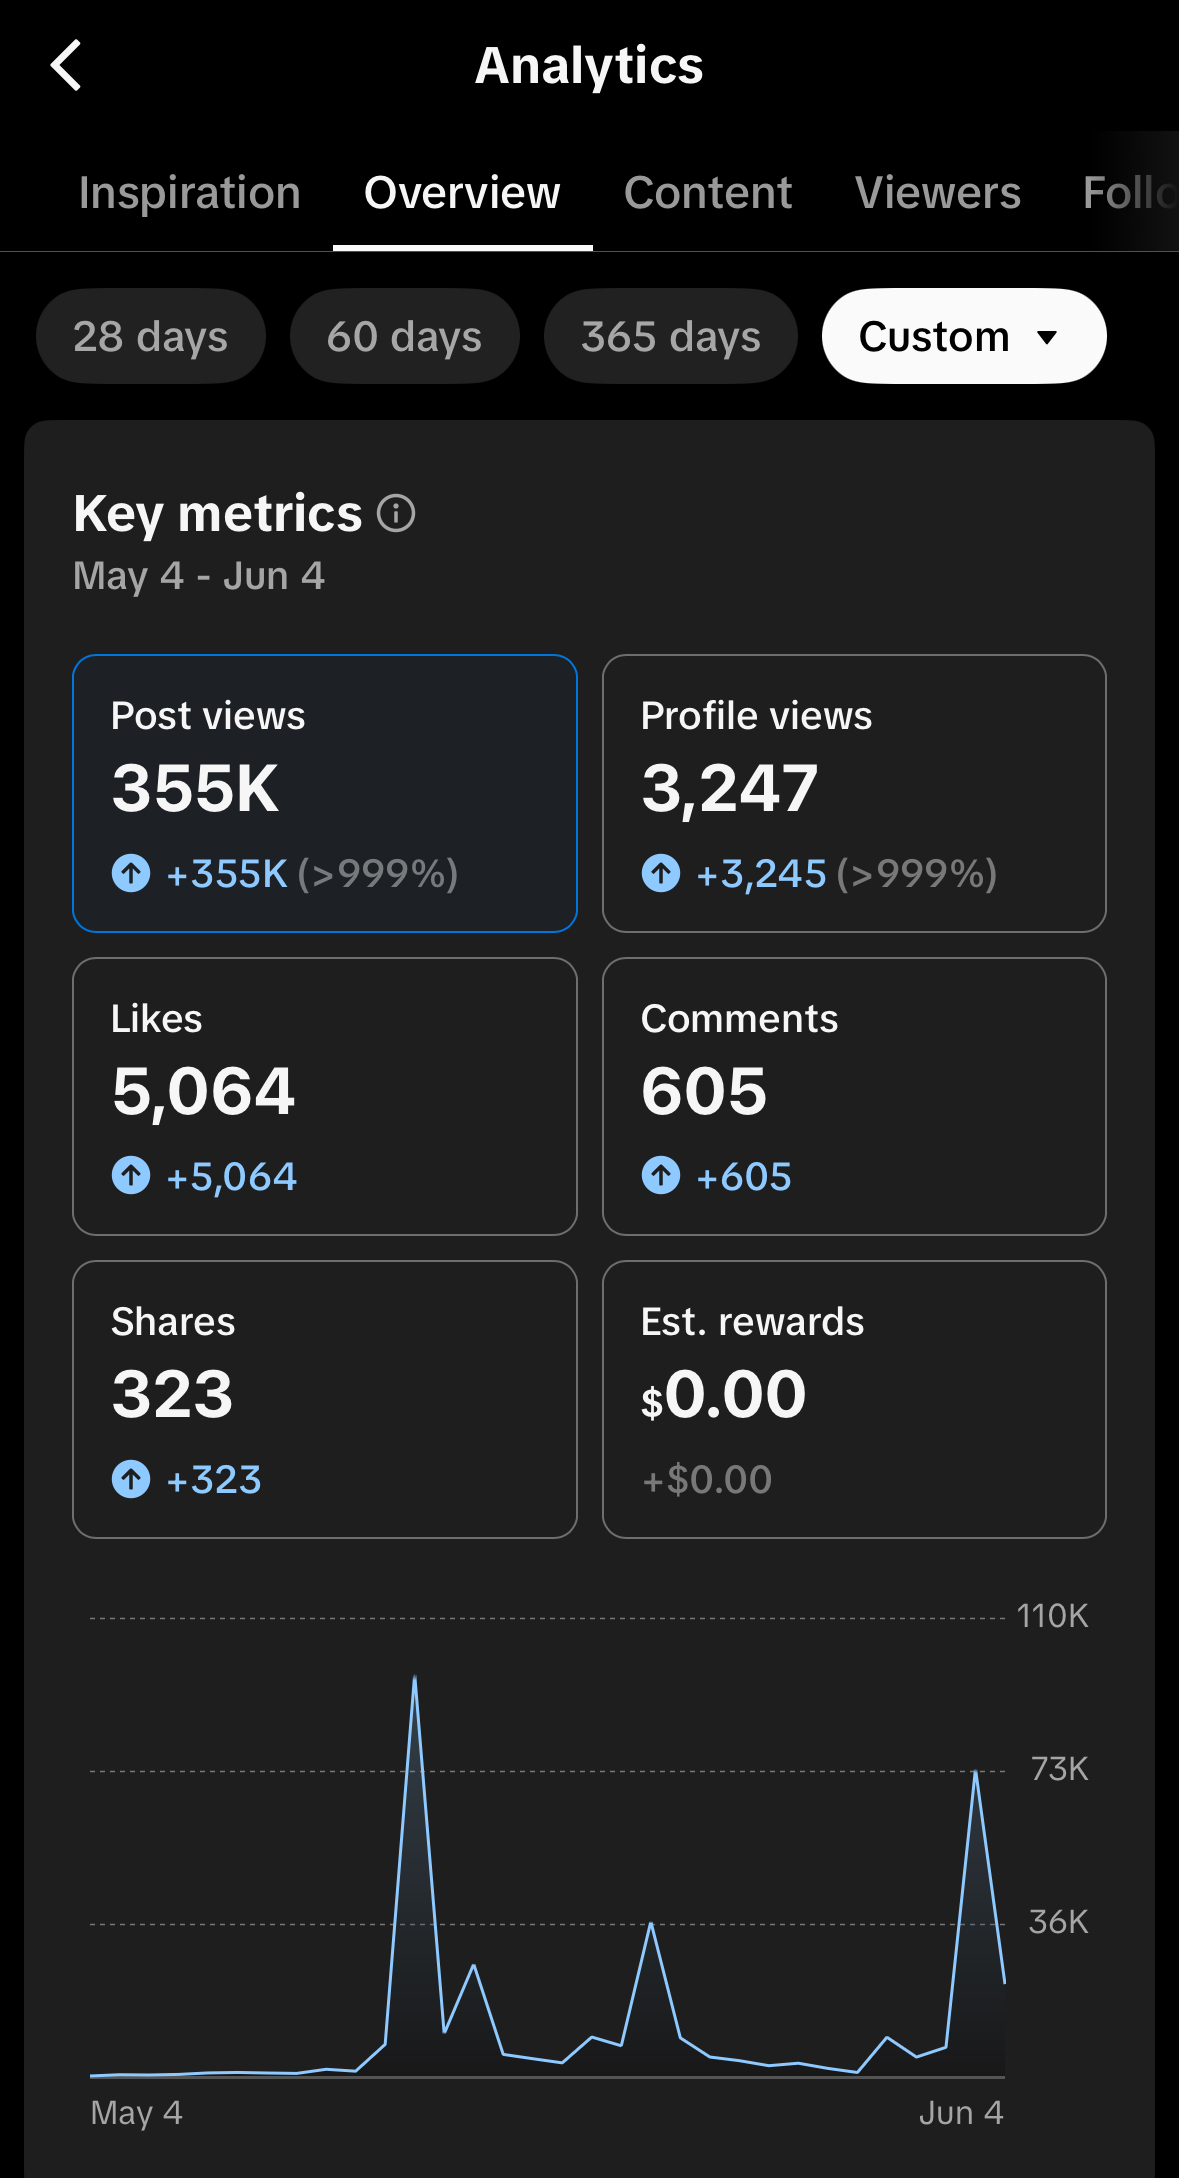
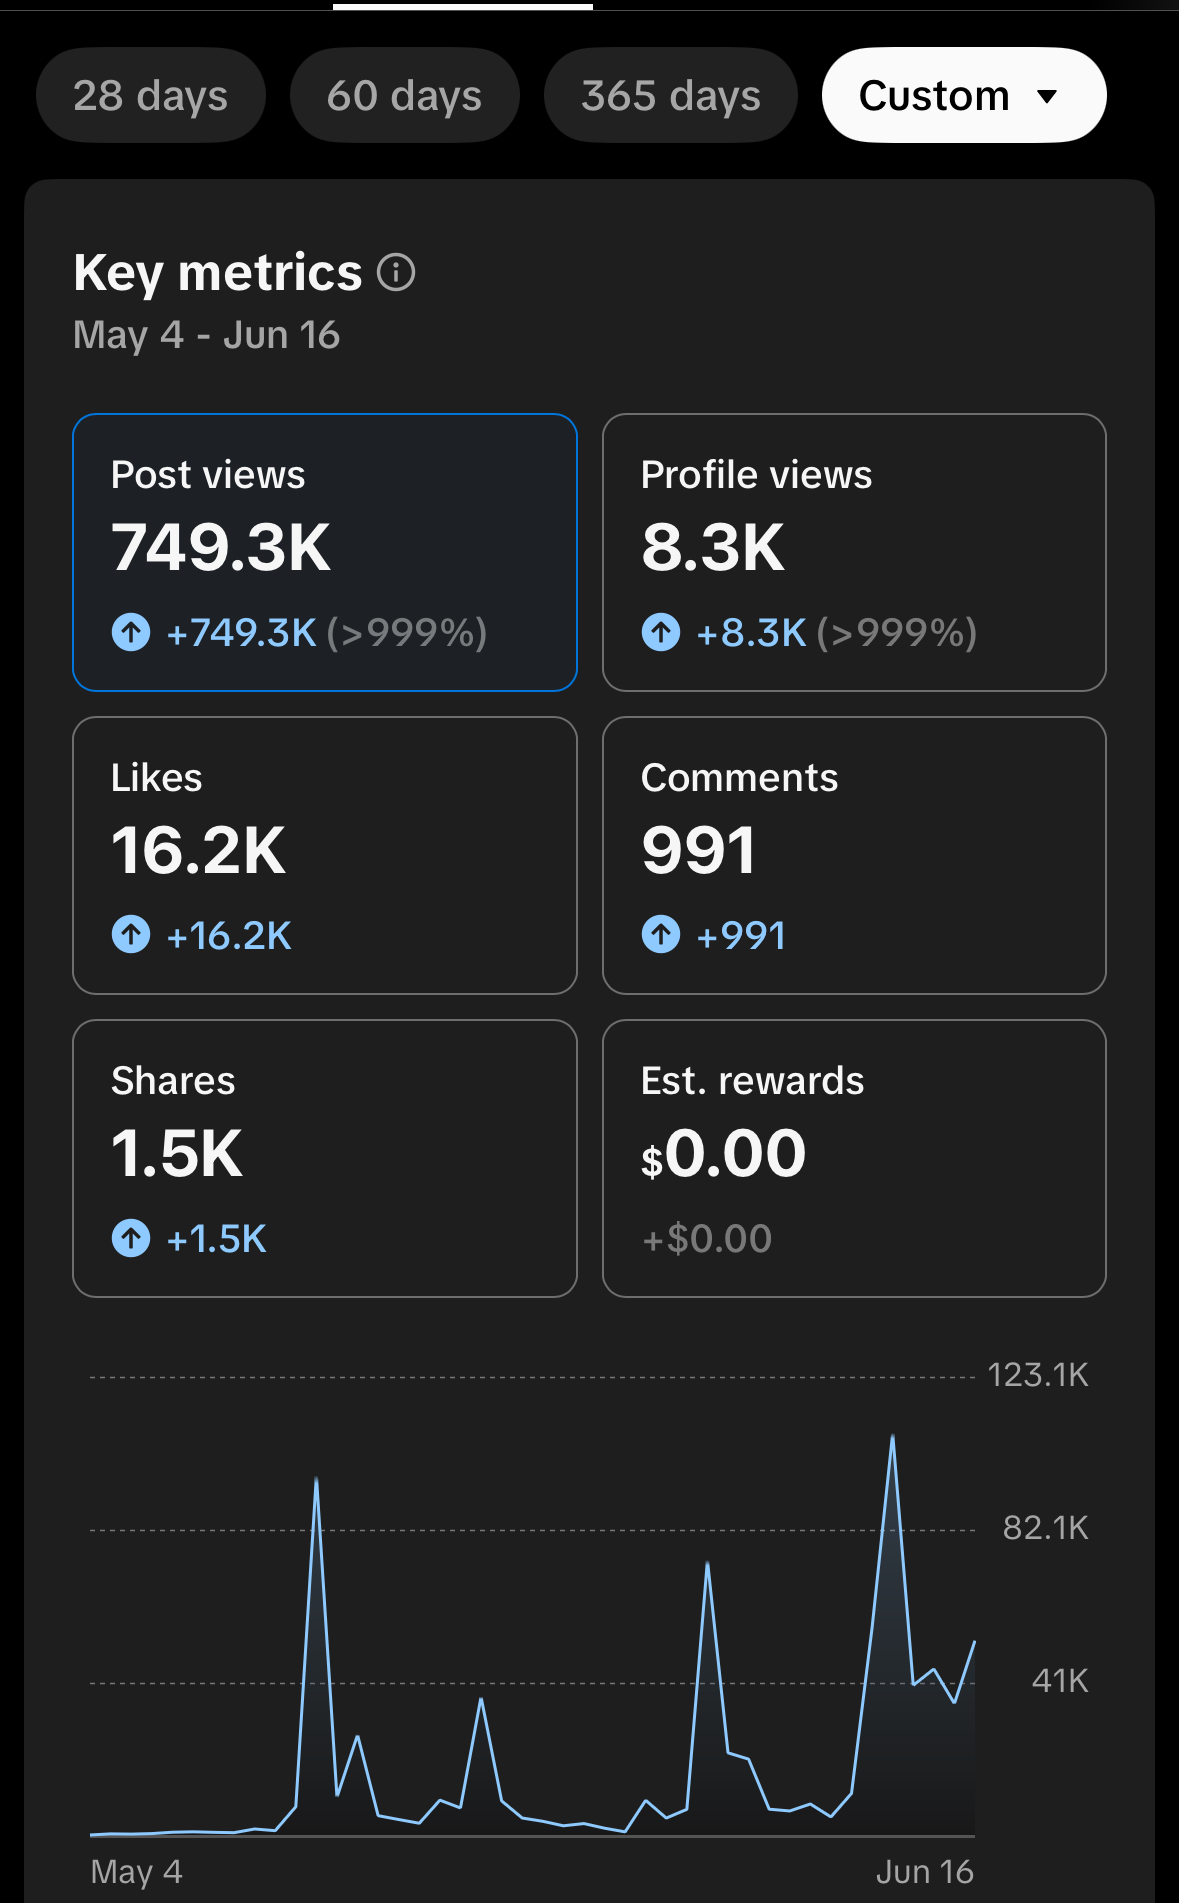
feat: add Work Experience section + metric updates
- New Experience section (career timeline) between About and Skills,
  bilingual EN/ID, with 4 roles and full achievement bullets; added
  nav link and active-scroll tracking
- Stats: TikTok followers -> 1M+ Impressions; removed "Nº 0X" section
  index labels
- Personal Branding: 700K+ total views / 2,100+ followers, "under two
  months" timeframe, new analytics proof screenshot
- Research Synergy Foundation: 1B revenue -> 9% yearly profit increase
- Teman Publikasi: 100M+ revenue -> 7x ROAS peak
- Video Work: reframed description (end-to-end output, personal picks)
- Ignore .DS_Store

diff --git a/index.html b/index.html
@@ -420,6 +420,31 @@
     .work-arrow { color: var(--ink-soft); transition: transform 0.3s var(--ease), color 0.3s; }
     .work:hover .work-arrow { color: var(--accent); transform: translate(4px,-4px); }
 
+    /* ============ EXPERIENCE ============ */
+    #experience { background: var(--paper-2); }
+    .timeline { display: flex; flex-direction: column; border-top: 2.5px solid var(--ink); }
+    .exp {
+      display: grid; grid-template-columns: 260px 1fr; gap: 44px;
+      padding: 46px 24px;
+      border-bottom: 2.5px solid var(--ink);
+    }
+    .exp-side { display: flex; flex-direction: column; align-items: flex-start; gap: 12px; }
+    .exp-date { align-self: flex-start; }
+    .exp-now { background: var(--accent); }
+    .exp-now .dot { width: 8px; height: 8px; border-radius: 50%; background: var(--ink); animation: pulse 2s infinite; }
+    .exp-co { font-family: var(--font-display); font-weight: 800; font-size: 1.5rem; line-height: 1.05; font-variation-settings: 'opsz' 60; }
+    .exp-loc { font-size: 12px; font-weight: 700; letter-spacing: 0.12em; text-transform: uppercase; color: var(--ink-soft); }
+    .exp-body h3 { font-size: clamp(1.6rem, 3vw, 2.3rem); margin-bottom: 22px; font-variation-settings: 'opsz' 60; }
+    .exp-list { list-style: none; display: flex; flex-direction: column; gap: 13px; }
+    .exp-list li {
+      position: relative; padding-left: 30px;
+      font-size: 1.03rem; font-weight: 500; line-height: 1.5;
+    }
+    .exp-list li::before {
+      content: ''; position: absolute; left: 0; top: 0.55em;
+      width: 13px; height: 3px; background: var(--accent);
+    }
+
     /* ============ VIDEOS ============ */
     #videos { background: var(--paper-2); }
     .video-group { margin-bottom: 60px; }
@@ -574,6 +599,7 @@
       </button>
       <ul class="nav-menu" id="navMenu">
         <li><a href="#about" data-link data-i18n="nav-about">About</a></li>
+        <li><a href="#experience" data-link data-i18n="nav-exp">Experience</a></li>
         <li><a href="#skills" data-link data-i18n="nav-skills">Skills</a></li>
         <li><a href="#work" data-link data-i18n="nav-work">Work</a></li>
         <li><a href="#videos" data-link data-i18n="nav-videos">Videos</a></li>
@@ -635,7 +661,6 @@
       <div class="section-head reveal">
         <div class="eyebrow">
           <span class="tag" style="background:var(--accent)"><span data-i18n="tag-about">Introduction</span></span>
-          <span class="no">Nº 01</span>
         </div>
         <h2 class="section-title" data-i18n="about-title">About Me</h2>
       </div>
@@ -653,8 +678,8 @@
             <div class="stat-label" data-i18n="stat1">Years of Experience</div>
           </div>
           <div class="stat">
-            <div class="stat-num" data-count="2033">0</div>
-            <div class="stat-label" data-i18n="stat2">TikTok Followers</div>
+            <div class="stat-num">1M+</div>
+            <div class="stat-label" data-i18n="stat2">Impressions</div>
           </div>
           <div class="stat">
             <div class="stat-num">∞</div>
@@ -665,13 +690,102 @@
     </div>
   </section>
 
+  <!-- ============ EXPERIENCE ============ -->
+  <section id="experience">
+    <div class="container">
+      <div class="section-head reveal">
+        <div class="eyebrow">
+          <span class="tag tag-accent"><span data-i18n="tag-exp">Career</span></span>
+        </div>
+        <h2 class="section-title" data-i18n="exp-title">Work Experience</h2>
+        <p class="section-desc" data-i18n="exp-desc">Roles I've held across agencies, startups, and foundations.</p>
+      </div>
+
+      <div class="timeline">
+
+        <article class="exp reveal">
+          <div class="exp-side">
+            <span class="tag tag-accent exp-now"><span class="dot"></span><span data-i18n="exp1-date">Feb 2025 – Present</span></span>
+            <div class="exp-co">Research Synergy Foundation</div>
+            <div class="exp-loc" data-i18n="exp1-loc">Bandung</div>
+          </div>
+          <div class="exp-body">
+            <h3 data-i18n="exp1-role">Digital Marketing Manager</h3>
+            <ul class="exp-list">
+              <li data-i18n="exp1-b1">Led a 2-person internal team executing digital marketing initiatives, overseeing end-to-end workflows from strategy and content production to performance reporting.</li>
+              <li data-i18n="exp1-b2">Designed and managed targeted Meta Ads campaigns, achieving up to 7x ROAS through audience segmentation and continuous A/B testing.</li>
+              <li data-i18n="exp1-b3">Produced around 30 content pieces per month across formats, from scripting and filming to post-production, while maintaining publishing cadence and quality.</li>
+              <li data-i18n="exp1-b4">Ran email marketing campaigns with a 21% open rate, outperforming the ~18% B2B industry benchmark.</li>
+              <li data-i18n="exp1-b5">Collaborated with four internal business units to align marketing with revenue targets, contributing to consistent month-over-month revenue growth.</li>
+              <li data-i18n="exp1-b6">Spearheaded digital content strategy that boosted brand awareness and engagement across multiple platforms.</li>
+            </ul>
+          </div>
+        </article>
+
+        <article class="exp reveal">
+          <div class="exp-side">
+            <span class="tag exp-date"><span data-i18n="exp2-date">Oct 2024 – Jan 2025</span></span>
+            <div class="exp-co">Tazwise</div>
+            <div class="exp-loc" data-i18n="exp2-loc">Bandung</div>
+          </div>
+          <div class="exp-body">
+            <h3 data-i18n="exp2-role">Marketing Officer (Freelance)</h3>
+            <ul class="exp-list">
+              <li data-i18n="exp2-b1">Acquired 2 new clients by developing and delivering persuasive marketing proposals and data-backed presentations.</li>
+              <li data-i18n="exp2-b2">Built and executed social media content strategies for footwear and fashion brand clients, improving online visibility and audience engagement.</li>
+              <li data-i18n="exp2-b3">Developed comprehensive digital marketing roadmaps for F&amp;B and fashion brands, integrating brand awareness and customer acquisition into a cohesive multi-channel plan.</li>
+              <li data-i18n="exp2-b4">Advised clients on content pillars, posting cadence, and platform-specific strategies tailored to their target audience demographics.</li>
+            </ul>
+          </div>
+        </article>
+
+        <article class="exp reveal">
+          <div class="exp-side">
+            <span class="tag exp-date"><span data-i18n="exp3-date">Apr 2024 – Aug 2024</span></span>
+            <div class="exp-co">I-Dac Indonesia</div>
+            <div class="exp-loc" data-i18n="exp3-loc">Jakarta</div>
+          </div>
+          <div class="exp-body">
+            <h3 data-i18n="exp3-role">Media Planner Intern</h3>
+            <ul class="exp-list">
+              <li data-i18n="exp3-b1">Researched and identified 100+ relevant Key Opinion Leaders (KOLs) in the F&amp;B sector for Supermi and Mi Telur Cap 3 Ayam, supporting influencer campaign planning.</li>
+              <li data-i18n="exp3-b2">Coordinated content alignment with 15 KOLs to ensure all deliverables adhered to brand guidelines and campaign messaging.</li>
+              <li data-i18n="exp3-b3">Analyzed monthly ad spend across Meta, Google, and TikTok to track KPI alignment, identify top-performing creatives, and surface optimization opportunities.</li>
+              <li data-i18n="exp3-b4">Monitored and reported weekly competitor activity on social media, generating insights that informed monthly strategy decisions.</li>
+              <li data-i18n="exp3-b5">Synthesized competitor strategies and historical campaign data into actionable strategic planning documents for stakeholders.</li>
+              <li data-i18n="exp3-b6">Contributed to three creative campaign concepts for the AION brand, targeting increased visibility and engagement across online and offline channels.</li>
+            </ul>
+          </div>
+        </article>
+
+        <article class="exp reveal">
+          <div class="exp-side">
+            <span class="tag exp-date"><span data-i18n="exp4-date">Nov 2023 – Mar 2024</span></span>
+            <div class="exp-co">Mulai Agency</div>
+            <div class="exp-loc" data-i18n="exp4-loc">Bandung</div>
+          </div>
+          <div class="exp-body">
+            <h3 data-i18n="exp4-role">Social Media Specialist</h3>
+            <ul class="exp-list">
+              <li data-i18n="exp4-b1">Grew Dewasa.id Instagram reach by 2,677 accounts and achieved 466% MoM growth through a targeted content and engagement strategy.</li>
+              <li data-i18n="exp4-b2">Generated 15,000+ total impressions for Dewasa.id, a 40.9% increase from the prior month, via optimized posting frequency and formats.</li>
+              <li data-i18n="exp4-b3">Produced 30+ content pieces per month for Dewasa.id plus daily content for Meneer Koffie's Instagram, maintaining brand consistency.</li>
+              <li data-i18n="exp4-b4">Designed and implemented Brand Guidelines using Adobe Creative Suite, ensuring visual and tonal consistency across materials.</li>
+              <li data-i18n="exp4-b5">Conducted competitor analysis across 25+ industry-relevant entities in the Bandung market, shaping content positioning and competitive strategy.</li>
+            </ul>
+          </div>
+        </article>
+
+      </div>
+    </div>
+  </section>
+
   <!-- ============ SKILLS ============ -->
   <section id="skills">
     <div class="container">
       <div class="section-head reveal">
         <div class="eyebrow">
           <span class="tag tag-accent"><span data-i18n="tag-skills">Capabilities</span></span>
-          <span class="no">Nº 02</span>
         </div>
         <h2 class="section-title" data-i18n="skills-title">Skill Stack</h2>
         <p class="section-desc" data-i18n="skills-desc">What I bring to every project.</p>
@@ -727,7 +841,6 @@
       <div class="section-head reveal">
         <div class="eyebrow">
           <span class="tag tag-accent"><span data-i18n="tag-works">The Work</span></span>
-          <span class="no">Nº 03</span>
         </div>
         <h2 class="section-title" data-i18n="works-title">Selected Works</h2>
         <p class="section-desc" data-i18n="works-desc">A few projects I've worked on.</p>
@@ -742,16 +855,16 @@
               <span class="work-duration" data-i18n="dur-pb">May 2025 to Present</span>
             </div>
             <span class="work-tag">Content Strategy · Content Creation</span>
-            <p class="work-desc" data-i18n="desc-pb">Helped an F&amp;B entrepreneur build their personal brand on TikTok from scratch. In just one month, the account hit 355K+ total views and grew to 500+ followers, driven by a content strategy built around authentic storytelling and niche positioning.</p>
+            <p class="work-desc" data-i18n="desc-pb">Helped an F&amp;B entrepreneur build their personal brand on TikTok from scratch. In under two months, the account hit 700K+ total views and grew to 2,100+ followers, driven by a content strategy built around authentic storytelling and niche positioning.</p>
             <div class="work-stats">
-              <div class="work-stat"><div class="work-stat-num">500+</div><div class="work-stat-label">Followers</div></div>
-              <div class="work-stat"><div class="work-stat-num">355K</div><div class="work-stat-label">Total Views</div></div>
+              <div class="work-stat"><div class="work-stat-num">2100+</div><div class="work-stat-label">Followers</div></div>
+              <div class="work-stat"><div class="work-stat-num">700K+</div><div class="work-stat-label">Total Views</div></div>
             </div>
             <div class="work-proofs">
               <a class="proof" href="assets/proof/fnb-tiktok-analytics.jpg" target="_blank" rel="noopener">
-                <img src="assets/proof/fnb-tiktok-analytics.jpg" alt="TikTok analytics 355K views in one month" onerror="this.style.display='none'; this.nextElementSibling.style.display='flex';" />
+                <img src="assets/proof/fnb-tiktok-analytics.jpg" alt="Analytics showing 700K+ post views in under two months" onerror="this.style.display='none'; this.nextElementSibling.style.display='flex';" />
                 <div class="placeholder" style="display:none"><i data-lucide="image"></i>Add proof</div>
-                <div class="proof-metric">355K<span>Views / 1 Month</span></div>
+                <div class="proof-metric">700K+<span>Post Views / &lt;2 Months</span></div>
               </a>
             </div>
           </div>
@@ -770,7 +883,7 @@
             <div class="work-stats">
               <div class="work-stat"><div class="work-stat-num">400+</div><div class="work-stat-label">Emails Sent</div></div>
               <div class="work-stat"><div class="work-stat-num">60+</div><div class="work-stat-label">Content Created</div></div>
-              <div class="work-stat"><div class="work-stat-num">1B</div><div class="work-stat-label">Yearly Revenue (IDR)</div></div>
+              <div class="work-stat"><div class="work-stat-num">9%</div><div class="work-stat-label">Profit Increase / Yearly</div></div>
             </div>
             <div class="work-proofs">
               <a class="proof" href="assets/proof/rsf-social.jpg" target="_blank" rel="noopener">
@@ -795,7 +908,7 @@
             <div class="work-stats">
               <div class="work-stat"><div class="work-stat-num">100+</div><div class="work-stat-label">Content Created</div></div>
               <div class="work-stat"><div class="work-stat-num">1M+</div><div class="work-stat-label">Organic Reach</div></div>
-              <div class="work-stat"><div class="work-stat-num">100M+</div><div class="work-stat-label">Revenue (IDR)</div></div>
+              <div class="work-stat"><div class="work-stat-num">7x</div><div class="work-stat-label">ROAS Peak</div></div>
             </div>
             <div class="work-proofs">
               <a class="proof" href="assets/proof/teman-ads-roas.jpg" target="_blank" rel="noopener">
@@ -894,10 +1007,9 @@
       <div class="section-head reveal">
         <div class="eyebrow">
           <span class="tag tag-accent"><span data-i18n="tag-videos">Motion</span></span>
-          <span class="no">Nº 04</span>
         </div>
         <h2 class="section-title" data-i18n="videos-title">Video Work</h2>
-        <p class="section-desc" data-i18n="videos-desc">Content I've created for clients.</p>
+        <p class="section-desc" data-i18n="videos-desc">I produce content end-to-end, far more than what's shown here. These are simply the ones I'm personally most proud of.</p>
       </div>
 
       <!-- TikTok Group -->
@@ -1022,7 +1134,6 @@
       <div class="section-head reveal">
         <div class="eyebrow">
           <span class="tag tag-accent"><span data-i18n="tag-services">What I Offer</span></span>
-          <span class="no">Nº 05</span>
         </div>
         <h2 class="section-title" data-i18n="svc-title">Services</h2>
         <p class="section-desc" data-i18n="svc-desc">How I can help.</p>
@@ -1116,13 +1227,41 @@
         'about-p1': 'Three years deep in digital marketing: from audience research and content creation, to managing Meta Ads from setup to optimization.',
         'about-p2': "I believe good strategy isn't just about ideas. It's about <strong>systems that can be repeated</strong>, measured, and constantly improved.",
         'about-p3': 'These days I also use AI to work faster, and I teach others how to do the same on TikTok.',
-        'stat1': 'Years of Experience', 'stat2': 'TikTok Followers', 'stat3': 'Cups of Coffee',
+        'stat1': 'Years of Experience', 'stat2': 'Impressions', 'stat3': 'Cups of Coffee',
+        'nav-exp': 'Experience',
+        'tag-exp': 'Career', 'exp-title': 'Work Experience',
+        'exp-desc': "Roles I've held across agencies, startups, and foundations.",
+        'exp1-role': 'Digital Marketing Manager', 'exp1-date': 'Feb 2025 – Present', 'exp1-loc': 'Bandung',
+        'exp1-b1': 'Led a 2-person internal team executing digital marketing initiatives, overseeing end-to-end workflows from strategy and content production to performance reporting.',
+        'exp1-b2': 'Designed and managed targeted Meta Ads campaigns, achieving up to 7x ROAS through audience segmentation and continuous A/B testing.',
+        'exp1-b3': 'Produced around 30 content pieces per month across formats, from scripting and filming to post-production, while maintaining publishing cadence and quality.',
+        'exp1-b4': 'Ran email marketing campaigns with a 21% open rate, outperforming the ~18% B2B industry benchmark.',
+        'exp1-b5': 'Collaborated with four internal business units to align marketing with revenue targets, contributing to consistent month-over-month revenue growth.',
+        'exp1-b6': 'Spearheaded digital content strategy that boosted brand awareness and engagement across multiple platforms.',
+        'exp2-role': 'Marketing Officer (Freelance)', 'exp2-date': 'Oct 2024 – Jan 2025', 'exp2-loc': 'Bandung',
+        'exp2-b1': 'Acquired 2 new clients by developing and delivering persuasive marketing proposals and data-backed presentations.',
+        'exp2-b2': 'Built and executed social media content strategies for footwear and fashion brand clients, improving online visibility and audience engagement.',
+        'exp2-b3': 'Developed comprehensive digital marketing roadmaps for F&B and fashion brands, integrating brand awareness and customer acquisition into a cohesive multi-channel plan.',
+        'exp2-b4': 'Advised clients on content pillars, posting cadence, and platform-specific strategies tailored to their target audience demographics.',
+        'exp3-role': 'Media Planner Intern', 'exp3-date': 'Apr 2024 – Aug 2024', 'exp3-loc': 'Jakarta',
+        'exp3-b1': 'Researched and identified 100+ relevant Key Opinion Leaders (KOLs) in the F&B sector for Supermi and Mi Telur Cap 3 Ayam, supporting influencer campaign planning.',
+        'exp3-b2': 'Coordinated content alignment with 15 KOLs to ensure all deliverables adhered to brand guidelines and campaign messaging.',
+        'exp3-b3': 'Analyzed monthly ad spend across Meta, Google, and TikTok to track KPI alignment, identify top-performing creatives, and surface optimization opportunities.',
+        'exp3-b4': 'Monitored and reported weekly competitor activity on social media, generating insights that informed monthly strategy decisions.',
+        'exp3-b5': 'Synthesized competitor strategies and historical campaign data into actionable strategic planning documents for stakeholders.',
+        'exp3-b6': 'Contributed to three creative campaign concepts for the AION brand, targeting increased visibility and engagement across online and offline channels.',
+        'exp4-role': 'Social Media Specialist', 'exp4-date': 'Nov 2023 – Mar 2024', 'exp4-loc': 'Bandung',
+        'exp4-b1': 'Grew Dewasa.id Instagram reach by 2,677 accounts and achieved 466% MoM growth through a targeted content and engagement strategy.',
+        'exp4-b2': 'Generated 15,000+ total impressions for Dewasa.id, a 40.9% increase from the prior month, via optimized posting frequency and formats.',
+        'exp4-b3': "Produced 30+ content pieces per month for Dewasa.id plus daily content for Meneer Koffie's Instagram, maintaining brand consistency.",
+        'exp4-b4': 'Designed and implemented Brand Guidelines using Adobe Creative Suite, ensuring visual and tonal consistency across materials.',
+        'exp4-b5': 'Conducted competitor analysis across 25+ industry-relevant entities in the Bandung market, shaping content positioning and competitive strategy.',
         'tag-skills': 'Capabilities', 'skills-title': 'Skill Stack',
         'skills-desc': 'What I bring to every project.',
         'tag-works': 'The Work', 'works-title': 'Selected Works',
         'works-desc': "A few projects I've worked on.",
         'dur-pb': 'May 2025 to Present',
-        'desc-pb': "Helped an F&B entrepreneur build their personal brand on TikTok from scratch. In just one month, the account hit 355K+ total views and grew to 500+ followers, driven by a content strategy built around authentic storytelling and niche positioning.",
+        'desc-pb': "Helped an F&B entrepreneur build their personal brand on TikTok from scratch. In under two months, the account hit 700K+ total views and grew to 2,100+ followers, driven by a content strategy built around authentic storytelling and niche positioning.",
         'dur-rsf': 'January 2025 to Present',
         'desc-rsf': 'Drove targeted email marketing campaigns with a 21% open rate to boost event conversions. Also led marketing planning and management, contributing to a 9% year-over-year profit growth.',
         'dur-tp': 'October 2025 to Present',
@@ -1133,7 +1272,7 @@
         'desc-wts': 'Developed a video content strategy for a blind date event organizer and relationship consultancy. After noticing static romance-quote posts underperformed, I pivoted to a casual, conversational format featuring 2 to 3 people discussing relatable romance topics. The format consistently drove 1,000+ views on Instagram and peaked at 29,000+ views on TikTok.',
         'desc-port': 'This site itself, built with vanilla HTML/CSS/JS and AI-assisted development as a showcase of vibe coding skills.',
         'nav-videos': 'Videos',
-        'tag-videos': 'Motion', 'videos-title': 'Video Work', 'videos-desc': "Content I've created for clients.",
+        'tag-videos': 'Motion', 'videos-title': 'Video Work', 'videos-desc': "I produce content end-to-end, far more than what's shown here. These are simply the ones I'm personally most proud of.",
         'vc-tiktok': 'Four videos', 'vc-ig': 'Six reels',
         'ig-reel': 'Reel', 'ig-post': 'Post', 'ig-open': 'Open on Instagram ↗',
         'tag-services': 'What I Offer', 'svc-title': 'Services', 'svc-desc': 'How I can help.',
@@ -1159,13 +1298,41 @@
         'about-p1': 'Tiga tahun berkutat di digital marketing: dari riset audiens dan pembuatan konten, hingga mengelola Meta Ads dari setup sampai optimasi.',
         'about-p2': 'Strategi yang bagus bukan cuma soal ide. Ini soal <strong>sistem yang bisa dijalankan berulang</strong>, diukur hasilnya, dan terus diperbaiki.',
         'about-p3': 'Sekarang saya juga aktif pakai AI untuk kerja lebih cepat, dan berbagi caranya ke orang lain lewat TikTok.',
-        'stat1': 'Tahun Pengalaman', 'stat2': 'Followers TikTok', 'stat3': 'Kopi yang Habis',
+        'stat1': 'Tahun Pengalaman', 'stat2': 'Impresi', 'stat3': 'Kopi yang Habis',
+        'nav-exp': 'Pengalaman',
+        'tag-exp': 'Karier', 'exp-title': 'Pengalaman Kerja',
+        'exp-desc': 'Peran yang pernah saya jalani di agensi, startup, dan yayasan.',
+        'exp1-role': 'Digital Marketing Manager', 'exp1-date': 'Feb 2025 – Sekarang', 'exp1-loc': 'Bandung',
+        'exp1-b1': 'Memimpin tim internal beranggotakan 2 orang dalam menjalankan inisiatif digital marketing, mengelola alur kerja end-to-end dari strategi dan produksi konten hingga pelaporan performa.',
+        'exp1-b2': 'Merancang dan mengelola kampanye Meta Ads bertarget, mencapai ROAS hingga 7x lewat segmentasi audiens dan A/B testing berkelanjutan.',
+        'exp1-b3': 'Memproduksi sekitar 30 konten per bulan dalam berbagai format, dari penulisan naskah dan syuting hingga pasca-produksi, sambil menjaga konsistensi jadwal dan kualitas.',
+        'exp1-b4': 'Menjalankan kampanye email marketing dengan open rate 21%, melampaui benchmark industri B2B yang sekitar 18%.',
+        'exp1-b5': 'Berkolaborasi dengan empat unit bisnis internal untuk menyelaraskan marketing dengan target revenue, berkontribusi pada pertumbuhan revenue yang konsisten dari bulan ke bulan.',
+        'exp1-b6': 'Menginisiasi strategi konten digital yang meningkatkan brand awareness dan engagement di berbagai platform.',
+        'exp2-role': 'Marketing Officer (Freelance)', 'exp2-date': 'Okt 2024 – Jan 2025', 'exp2-loc': 'Bandung',
+        'exp2-b1': 'Mendapatkan 2 klien baru dengan menyusun dan menyampaikan proposal marketing yang persuasif serta presentasi berbasis data.',
+        'exp2-b2': 'Membangun dan menjalankan strategi konten media sosial untuk klien brand sepatu dan fashion, meningkatkan visibilitas online dan engagement audiens.',
+        'exp2-b3': 'Menyusun roadmap digital marketing menyeluruh untuk brand F&B dan fashion, menyatukan tujuan brand awareness dan akuisisi pelanggan ke dalam rencana multi-channel yang kohesif.',
+        'exp2-b4': 'Memberi rekomendasi kepada klien soal content pillar, jadwal posting, dan strategi spesifik per platform yang disesuaikan dengan demografi target audiens.',
+        'exp3-role': 'Media Planner Intern', 'exp3-date': 'Apr 2024 – Agu 2024', 'exp3-loc': 'Jakarta',
+        'exp3-b1': 'Meneliti dan mengidentifikasi 100+ Key Opinion Leader (KOL) relevan di sektor F&B untuk Supermi dan Mi Telur Cap 3 Ayam, mendukung perencanaan kampanye influencer.',
+        'exp3-b2': 'Mengoordinasikan keselarasan konten dengan 15 KOL agar seluruh deliverable sesuai brand guidelines dan pesan kampanye.',
+        'exp3-b3': 'Menganalisis ad spend bulanan di Meta, Google, dan TikTok untuk memantau keselarasan KPI, mengidentifikasi kreatif berperforma terbaik, dan menemukan peluang optimasi.',
+        'exp3-b4': 'Memantau dan melaporkan aktivitas kompetitor mingguan di media sosial, menghasilkan insight yang menjadi dasar keputusan strategi bulanan.',
+        'exp3-b5': 'Merangkum strategi kompetitor dan data kampanye historis menjadi dokumen perencanaan strategis yang actionable untuk stakeholder.',
+        'exp3-b6': 'Berkontribusi pada tiga konsep kampanye kreatif untuk brand AION, menargetkan peningkatan visibilitas dan engagement di kanal online maupun offline.',
+        'exp4-role': 'Social Media Specialist', 'exp4-date': 'Nov 2023 – Mar 2024', 'exp4-loc': 'Bandung',
+        'exp4-b1': 'Menumbuhkan reach Instagram Dewasa.id sebanyak 2.677 akun dan mencapai pertumbuhan 466% MoM lewat strategi konten dan engagement bertarget.',
+        'exp4-b2': 'Menghasilkan 15.000+ total impression untuk Dewasa.id, naik 40,9% dari bulan sebelumnya, melalui optimasi frekuensi posting dan format konten.',
+        'exp4-b3': "Memproduksi 30+ konten per bulan untuk Dewasa.id plus konten harian untuk Instagram Meneer Koffie, menjaga konsistensi brand.",
+        'exp4-b4': 'Merancang dan menerapkan Brand Guidelines menggunakan Adobe Creative Suite, memastikan konsistensi visual dan tonal di seluruh materi.',
+        'exp4-b5': 'Melakukan analisis kompetitor terhadap 25+ entitas relevan di pasar Bandung, membentuk positioning konten dan strategi kompetitif.',
         'tag-skills': 'Kapabilitas', 'skills-title': 'Skill Stack',
         'skills-desc': 'Yang saya bawa ke setiap project.',
         'tag-works': 'Karya', 'works-title': 'Portofolio',
         'works-desc': 'Beberapa project yang pernah saya kerjakan.',
         'dur-pb': 'Mei 2025 sampai Sekarang',
-        'desc-pb': 'Membantu seorang entrepreneur F&B membangun personal brand di TikTok dari nol. Hanya dalam satu bulan, akun berhasil meraih 355K+ total tayangan dan tumbuh ke 500+ followers, berkat strategi konten berbasis storytelling autentik dan niche yang tepat.',
+        'desc-pb': 'Membantu seorang entrepreneur F&B membangun personal brand di TikTok dari nol. Dalam kurang dari dua bulan, akun berhasil meraih 700K+ total tayangan dan tumbuh ke 2.100+ followers, berkat strategi konten berbasis storytelling autentik dan niche yang tepat.',
         'dur-rsf': 'Januari 2025 sampai Sekarang',
         'desc-rsf': 'Menjalankan kampanye email marketing bertarget dengan open rate 21% untuk mendorong konversi event. Sekaligus memimpin perencanaan dan manajemen marketing yang berkontribusi pada pertumbuhan profit 9% secara tahunan.',
         'dur-tp': 'Oktober 2025 sampai Sekarang',
@@ -1176,7 +1343,7 @@
         'desc-wts': 'Mengembangkan strategi konten video untuk penyelenggara blind date dan konsultasi hubungan. Setelah memperhatikan postingan quote romansa tidak performa, saya pivot ke format percakapan santai menampilkan 2 sampai 3 orang membahas topik romansa yang relatable. Format ini secara konsisten meraih 1.000+ tayangan di Instagram dan puncaknya 29.000+ tayangan di TikTok.',
         'desc-port': 'Website ini sendiri, dibangun dengan HTML/CSS/JS murni menggunakan AI-assisted development sebagai showcase kemampuan vibe coding.',
         'nav-videos': 'Video',
-        'tag-videos': 'Video', 'videos-title': 'Karya Video', 'videos-desc': 'Konten yang saya buat untuk klien.',
+        'tag-videos': 'Video', 'videos-title': 'Karya Video', 'videos-desc': 'Saya memproduksi konten end-to-end, jauh lebih banyak dari yang ditampilkan di sini. Ini sekadar yang paling saya suka secara personal.',
         'vc-tiktok': 'Empat video', 'vc-ig': 'Enam reel',
         'ig-reel': 'Reel', 'ig-post': 'Post', 'ig-open': 'Buka di Instagram ↗',
         'tag-services': 'Yang Saya Tawarkan', 'svc-title': 'Layanan', 'svc-desc': 'Apa yang bisa saya bantu.',
@@ -1239,7 +1406,7 @@
     });
 
     // ============ ACTIVE NAV ON SCROLL ============
-    const sections = ['hero', 'about', 'skills', 'work', 'videos', 'services', 'contact'];
+    const sections = ['hero', 'about', 'experience', 'skills', 'work', 'videos', 'services', 'contact'];
     const navLinks = document.querySelectorAll('.nav-menu a');
     window.addEventListener('scroll', () => {
       let current = 'hero';